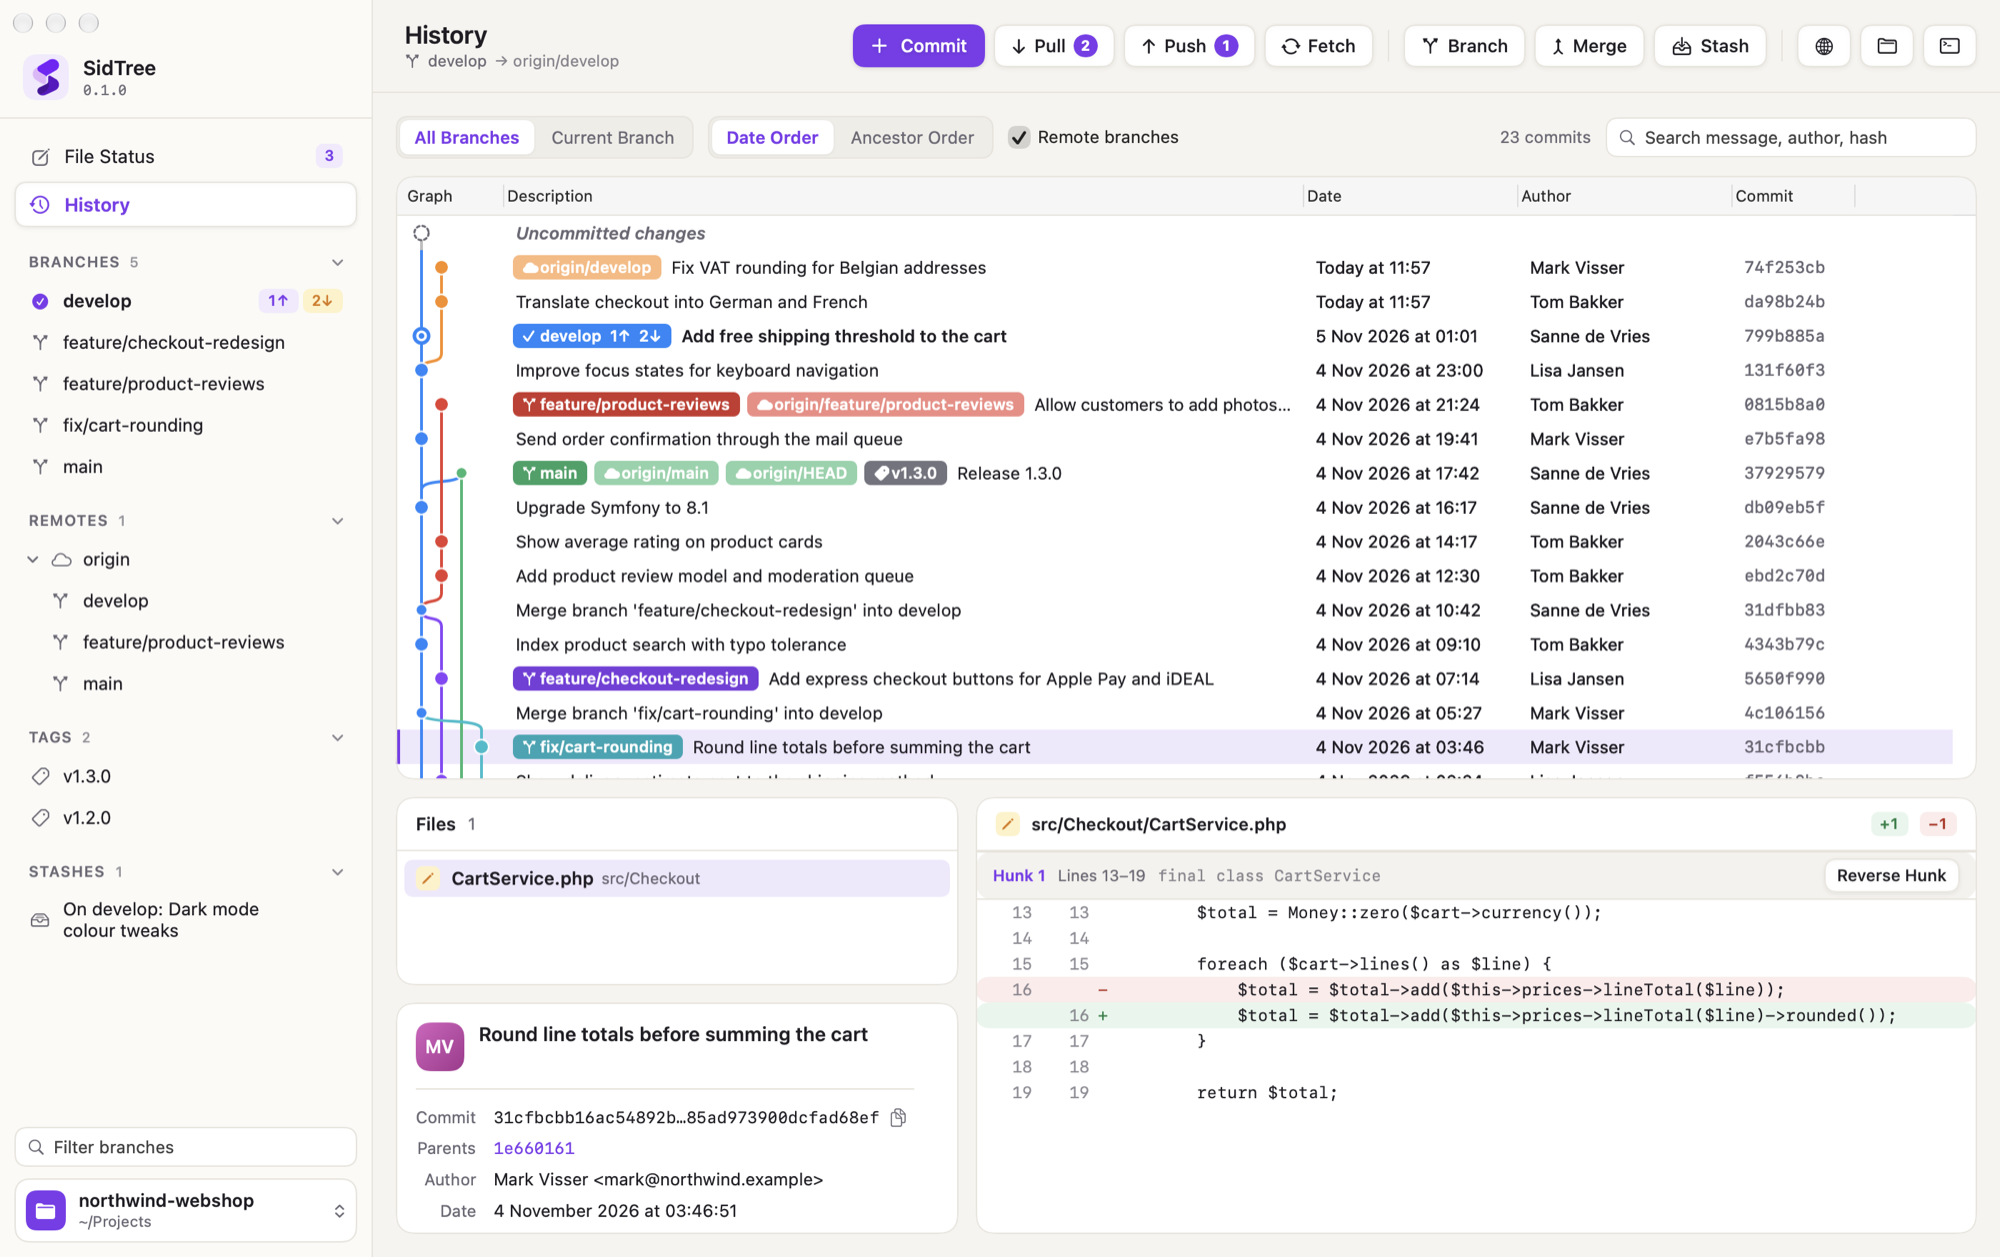
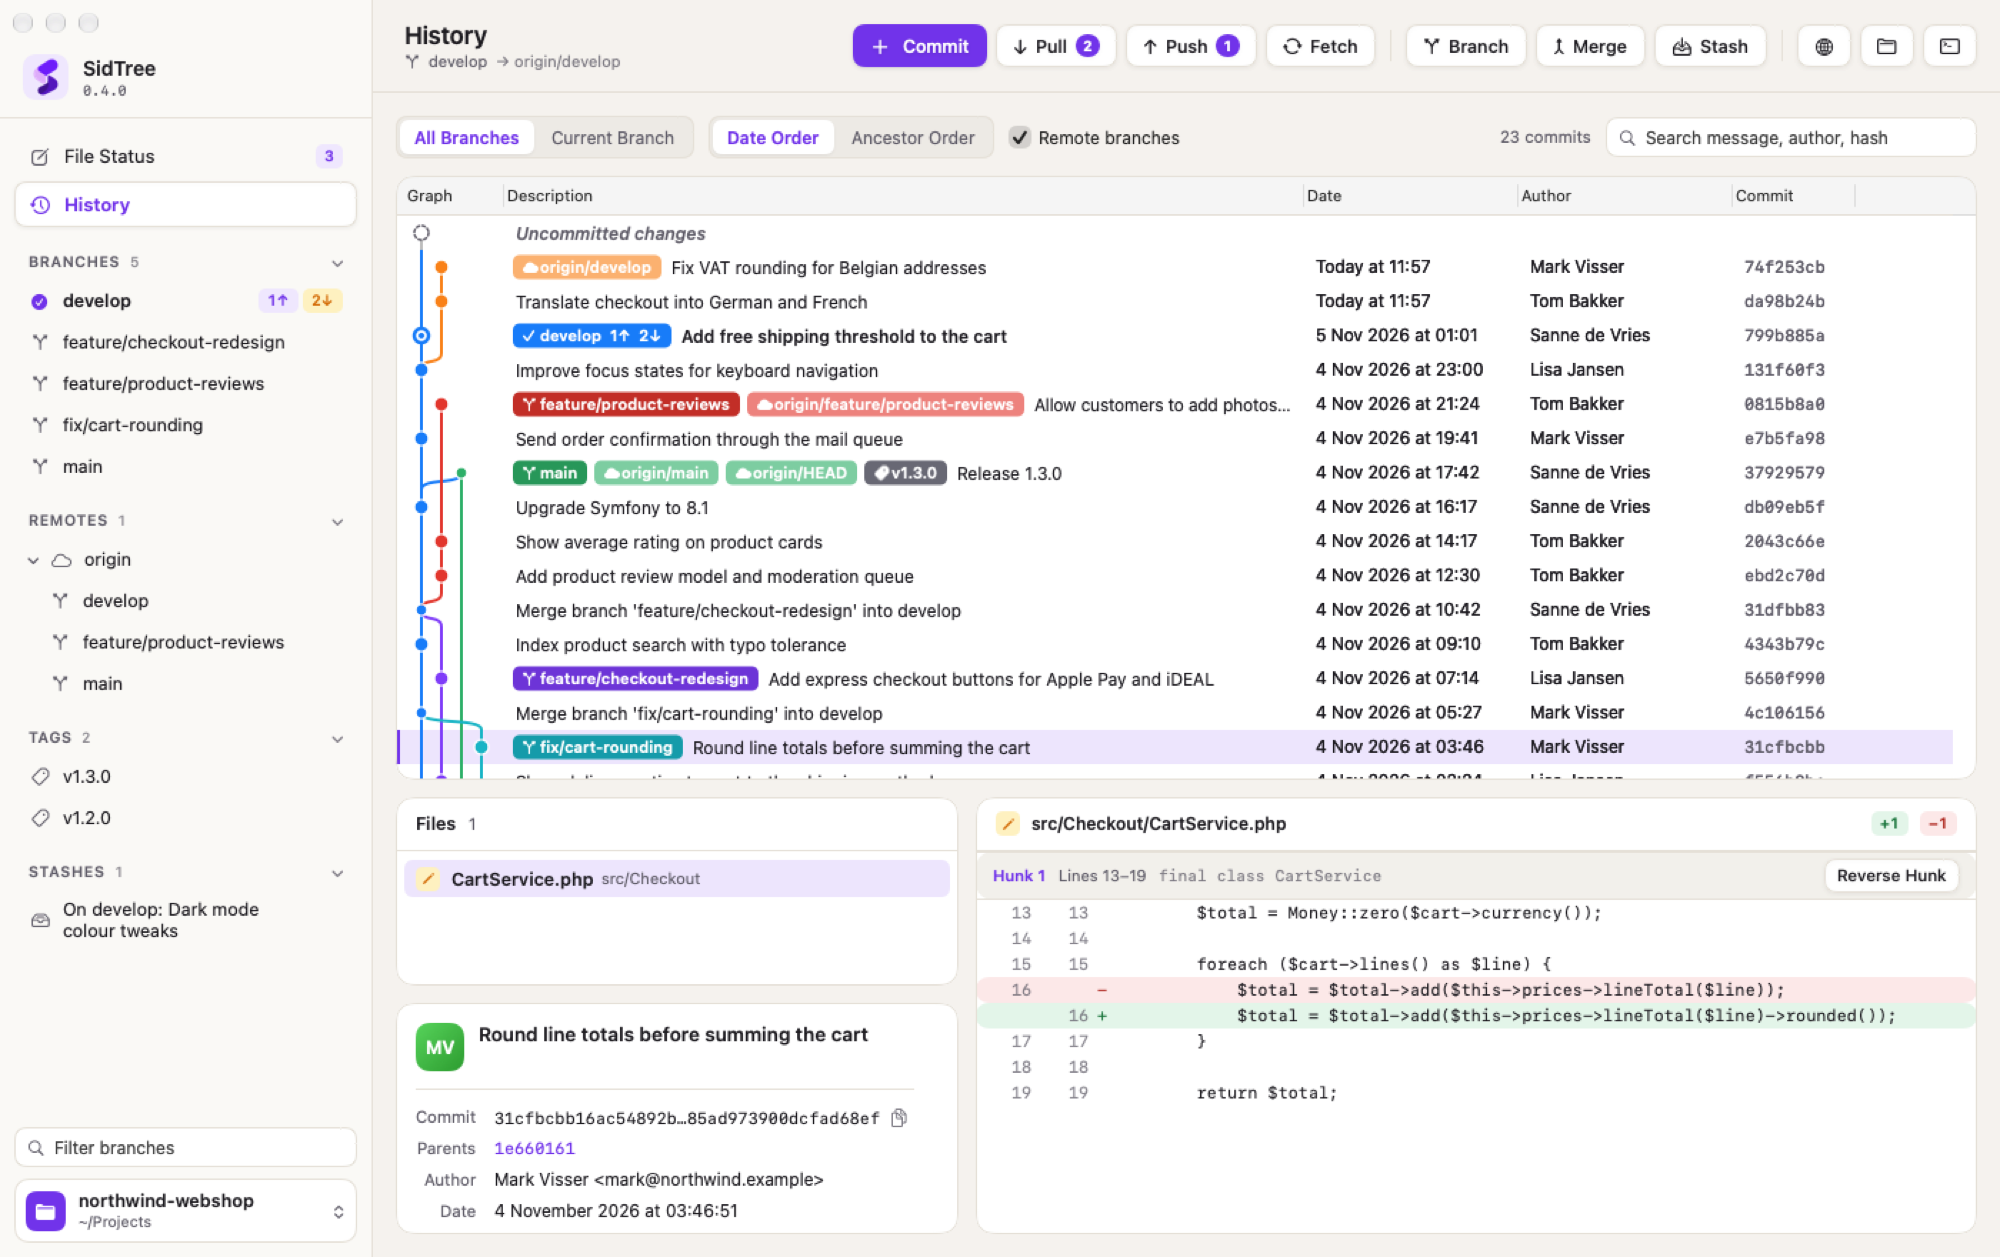
Tag editing, keyboard selection, commit progress and release-only CI
- Edit Tag (rename, move, message, remote) and Delete Tag (optionally remote),
  plus Move Tag Here in the history menu
- Cmd+A, arrow keys and Space in the staged/unstaged lists
- Commit button shows a spinner and Processing… while committing/pushing
- The workflow runs only when VERSION changes and creates the release itself
- Refreshed README screenshots

diff --git a/Sources/SidTree/Views/FileStatusView.swift b/Sources/SidTree/Views/FileStatusView.swift
@@ -64,7 +64,8 @@ struct FileStatusView: View {
                                  },
                                  onToggle: { model.unstage([$0]) },
                                  onDoubleClick: { model.unstage([$0]) },
-                                 dragKind: "staged") { file in
+                                 dragKind: "staged",
+                                 onToggleSelection: { model.unstage($0) }) { file in
                         let targets = selected(file, in: model.status.staged, selection: stagedSelection)
                         Button(targets.count > 1 ? "Unstage \(targets.count) Files" : "Unstage") { model.unstage(targets) }
                         Divider()
@@ -97,7 +98,8 @@ struct FileStatusView: View {
                                  },
                                  onToggle: { model.stage([$0]) },
                                  onDoubleClick: { model.stage([$0]) },
-                                 dragKind: "unstaged") { file in
+                                 dragKind: "unstaged",
+                                 onToggleSelection: { model.stage($0) }) { file in
                         let targets = selected(file, in: model.status.unstaged, selection: unstagedSelection)
                         Button(targets.count > 1 ? "Stage \(targets.count) Files" : "Stage") { model.stage(targets) }
                         if file.kind == .conflicted {
@@ -277,7 +279,7 @@ struct CommitActionControl: View {
     @State private var hoverMain = false
     @State private var hoverMenu = false
 
-    private var disabled: Bool { !model.canCommit || (model.pushAfterCommit && model.currentBranch == nil) }
+    private var disabled: Bool { model.committing || !model.canCommit || (model.pushAfterCommit && model.currentBranch == nil) }
     private var title: String {
         if model.amend { return model.pushAfterCommit ? "Amend & Push" : "Amend Commit" }
         return model.pushAfterCommit ? "Commit & Push" : "Commit"
@@ -292,7 +294,16 @@ struct CommitActionControl: View {
     var body: some View {
         HStack(spacing: 0) {
             Button { model.commit() } label: {
-                Label(title, systemImage: "checkmark")
+                Group {
+                    if model.committing {
+                        HStack(spacing: 6) {
+                            ProgressView().controlSize(.mini).tint(.white).frame(width: 12, height: 12)
+                            Text("Processing…")
+                        }
+                    } else {
+                        Label(title, systemImage: "checkmark")
+                    }
+                }
                     .padding(.horizontal, 12)
                     .frame(height: 30)
                     .background(hoverMain && !disabled ? .white.opacity(0.1) : .clear)
@@ -302,8 +313,8 @@ struct CommitActionControl: View {
             .onHover { hoverMain = $0 }
             .keyboardShortcut(.return, modifiers: .command)
             .disabled(disabled)
-            .opacity(disabled ? 0.5 : 1)
-            .help(help)
+            .opacity(model.committing ? 0.75 : (disabled ? 0.5 : 1))
+            .help(model.committing ? "Committing…" : help)
 
             Rectangle().fill(.white.opacity(0.3)).frame(width: 1, height: 18)
             Button(action: showMenu) {

diff --git a/Sources/SidTree/Views/FileListView.swift b/Sources/SidTree/Views/FileListView.swift
@@ -12,9 +12,13 @@ struct FileListView<Menu: View>: View {
     var onDoubleClick: ((FileChange) -> Void)? = nil
     /// When set, rows can be dragged to the other list ("staged" or "unstaged").
     var dragKind: String? = nil
+    /// Space bar: stage/unstage the selected files.
+    var onToggleSelection: (([FileChange]) -> Void)? = nil
     @ViewBuilder var menu: (FileChange) -> Menu
 
     @State private var anchor: String?
+    @State private var cursor: String?
+    @FocusState private var listFocused: Bool
 
     var body: some View {
         GeometryReader { viewport in
@@ -52,6 +56,50 @@ struct FileListView<Menu: View>: View {
             selection.formIntersection(ids)
             if let anchor, !ids.contains(anchor) { self.anchor = nil }
         }
+        .focusable()
+        .focusEffectDisabled()
+        .focused($listFocused)
+        .onKeyPress(.upArrow, phases: [.down, .repeat]) { press in move(-1, extend: press.modifiers.contains(.shift)) }
+        .onKeyPress(.downArrow, phases: [.down, .repeat]) { press in move(1, extend: press.modifiers.contains(.shift)) }
+        .onKeyPress(.space) {
+            let chosen = files.filter { selection.contains($0.id) }
+            guard let onToggleSelection, !chosen.isEmpty else { return .ignored }
+            onToggleSelection(chosen)
+            return .handled
+        }
+        .background {
+            // ⌘A selects every file in this list while it has focus; text fields keep their own ⌘A.
+            Button("Select All Files") { selectAll() }
+                .keyboardShortcut("a", modifiers: .command)
+                .disabled(!listFocused || files.isEmpty)
+                .opacity(0)
+                .frame(width: 0, height: 0)
+                .accessibilityHidden(true)
+        }
+    }
+
+    private func selectAll() {
+        selection = Set(files.map(\.id))
+        if anchor == nil { anchor = files.first?.id }
+    }
+
+    /// ↑/↓ move the selection, ⇧ extends it from the anchor.
+    private func move(_ delta: Int, extend: Bool) -> KeyPress.Result {
+        guard !files.isEmpty else { return .ignored }
+        let start = cursor.flatMap { id in files.firstIndex { $0.id == id } }
+            ?? files.firstIndex { selection.contains($0.id) }
+            ?? (delta > 0 ? -1 : files.count)
+        let next = min(max(start + delta, 0), files.count - 1)
+        let file = files[next]
+        if extend, let anchor, let a = files.firstIndex(where: { $0.id == anchor }) {
+            selection = Set(files[min(a, next)...max(a, next)].map(\.id))
+        } else {
+            selection = [file.id]
+            anchor = file.id
+        }
+        cursor = file.id
+        onSelect(file)
+        return .handled
     }
 
     /// Dragging a selected row drags the whole selection; otherwise just that row.
@@ -61,6 +109,8 @@ struct FileListView<Menu: View>: View {
     }
 
     private func click(_ file: FileChange, modifiers flags: NSEvent.ModifierFlags = NSEvent.modifierFlags) {
+        listFocused = true
+        cursor = file.id
         if flags.contains(.command) {
             if selection.contains(file.id) { selection.remove(file.id) } else { selection.insert(file.id) }
             anchor = file.id

diff --git a/Sources/SidTree/Model/RepoModel.swift b/Sources/SidTree/Model/RepoModel.swift
@@ -116,6 +116,8 @@ final class RepoModel {
     }
     var commitFocusToken = 0
     var aiGenerating = false
+    /// True while a commit (and the optional push) is running.
+    var committing = false
     private var savedMessageBeforeAmend = ""
     private var statusDiffGeneration = 0
 
@@ -830,27 +832,35 @@ final class RepoModel {
     }
 
     func commit() {
-        guard canCommit, !pushAfterCommit || currentBranch != nil else { return }
+        guard !committing, canCommit, !pushAfterCommit || currentBranch != nil else { return }
+        committing = true
         let message = commitMessage
         let amend = self.amend
         let push = pushAfterCommit
         let branch = currentBranch
         let upstream = currentBranchInfo?.upstream
         perform(amend ? "Amending…" : "Committing…", success: push ? nil : "Committed") {
-            try await self.git.commit(message: message, amend: amend)
-            await MainActor.run {
-                self.savedMessageBeforeAmend = ""
-                self.commitMessage = ""
-                self.amend = false
-            }
-            if push, let branch {
-                let (remote, remoteBranch) = Self.splitUpstream(upstream) ?? (self.remotes.first ?? "origin", branch)
-                await MainActor.run { self.activity = "Pushing…" }
-                try await self.git.push(remote: remote, specs: [.init(local: branch, remote: remoteBranch)],
-                                        setUpstream: upstream == nil, tags: false, force: amend)
-                await MainActor.run { self.showToast("Committed and pushed to \(remote)/\(remoteBranch)") }
+            do {
+                try await self.commitAndPush(message: message, amend: amend, push: push, branch: branch, upstream: upstream)
+                await MainActor.run { self.committing = false }
+            } catch {
+                await MainActor.run { self.committing = false }
+                throw error
             }
         }
+    }
+
+    private func commitAndPush(message: String, amend: Bool, push: Bool, branch: String?, upstream: String?) async throws {
+        try await git.commit(message: message, amend: amend)
+        savedMessageBeforeAmend = ""
+        commitMessage = ""
+        self.amend = false
+        guard push, let branch else { return }
+        let (remote, remoteBranch) = Self.splitUpstream(upstream) ?? (remotes.first ?? "origin", branch)
+        activity = "Pushing…"
+        try await git.push(remote: remote, specs: [.init(local: branch, remote: remoteBranch)],
+                           setUpstream: upstream == nil, tags: false, force: amend)
+        showToast("Committed and pushed to \(remote)/\(remoteBranch)")
     }
 
     // MARK: - AI commit message

diff --git a/CHANGELOG.md b/CHANGELOG.md
@@ -4,6 +4,19 @@ All notable changes to SidTree. Newest first; the app shows these notes in **Wha
 
 ## [Unreleased]
 
+## [0.4.0] - 2026-11-24
+
+### Added
+- Edit tags: rename, move to another commit or change the message, locally and on the remote
+- Delete tags here and, if you like, from the remote as well
+- **Move Tag Here** in the history context menu
+- ⌘A selects all files in the staged or unstaged list; ↑/↓ move through files and Space stages or unstages the selection
+
+### Changed
+- The Commit button shows a spinner and **Processing…** while committing or pushing
+- Releases are built only when `VERSION` changes
+- Refreshed screenshots in the README
+
 ## [0.3.0] - 2026-11-24
 
 ### Added

diff --git a/README.md b/README.md
@@ -117,7 +117,7 @@ SidTree checks for new versions by itself and shows a small badge when one is av
 ./scripts/build.sh    # creates build/SidTree.app
 ```
 
-Only the Xcode Command Line Tools are needed. Releases are built by GitHub Actions from a version tag; see `scripts/release.sh` and [CHANGELOG.md](CHANGELOG.md).
+Only the Xcode Command Line Tools are needed. A release is built by GitHub Actions whenever `VERSION` changes on `main`: add the notes to [CHANGELOG.md](CHANGELOG.md), then run `scripts/release.sh x.y.z`.
 
 ## Credits
 
